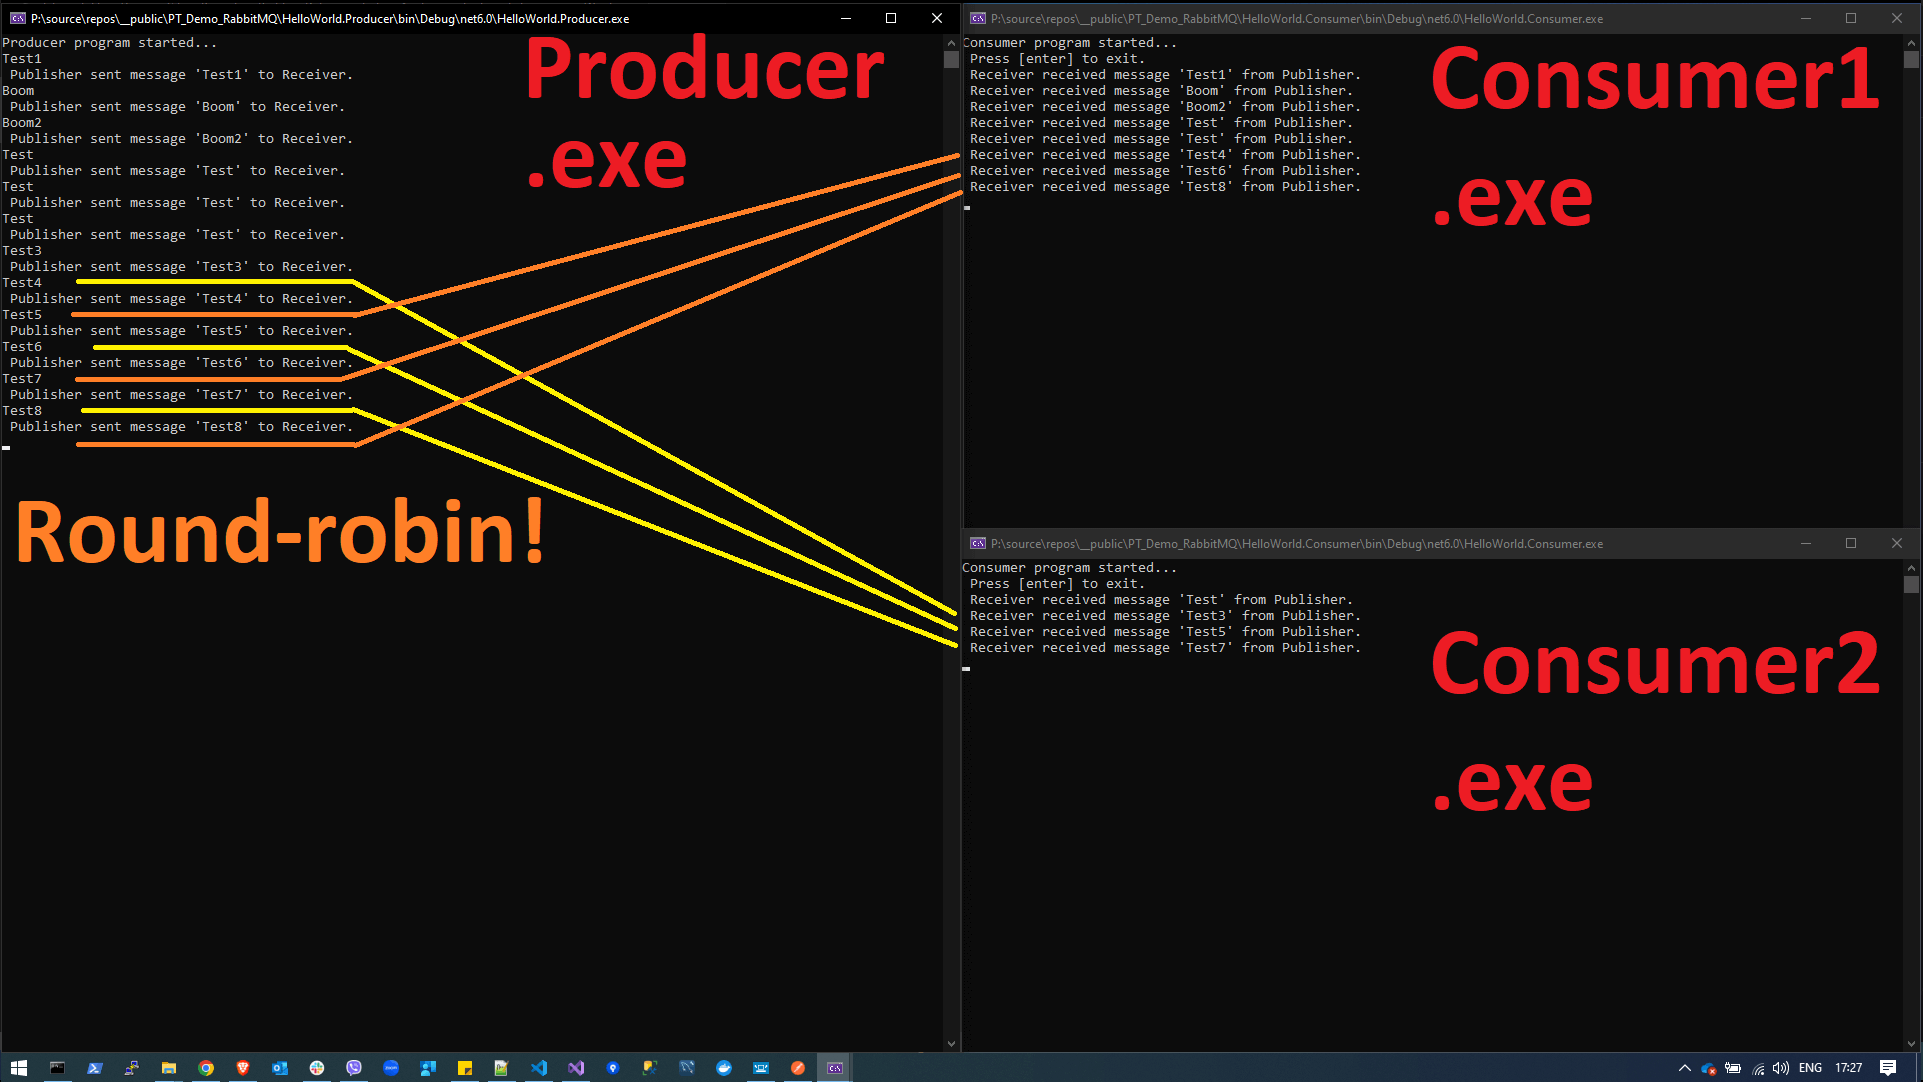
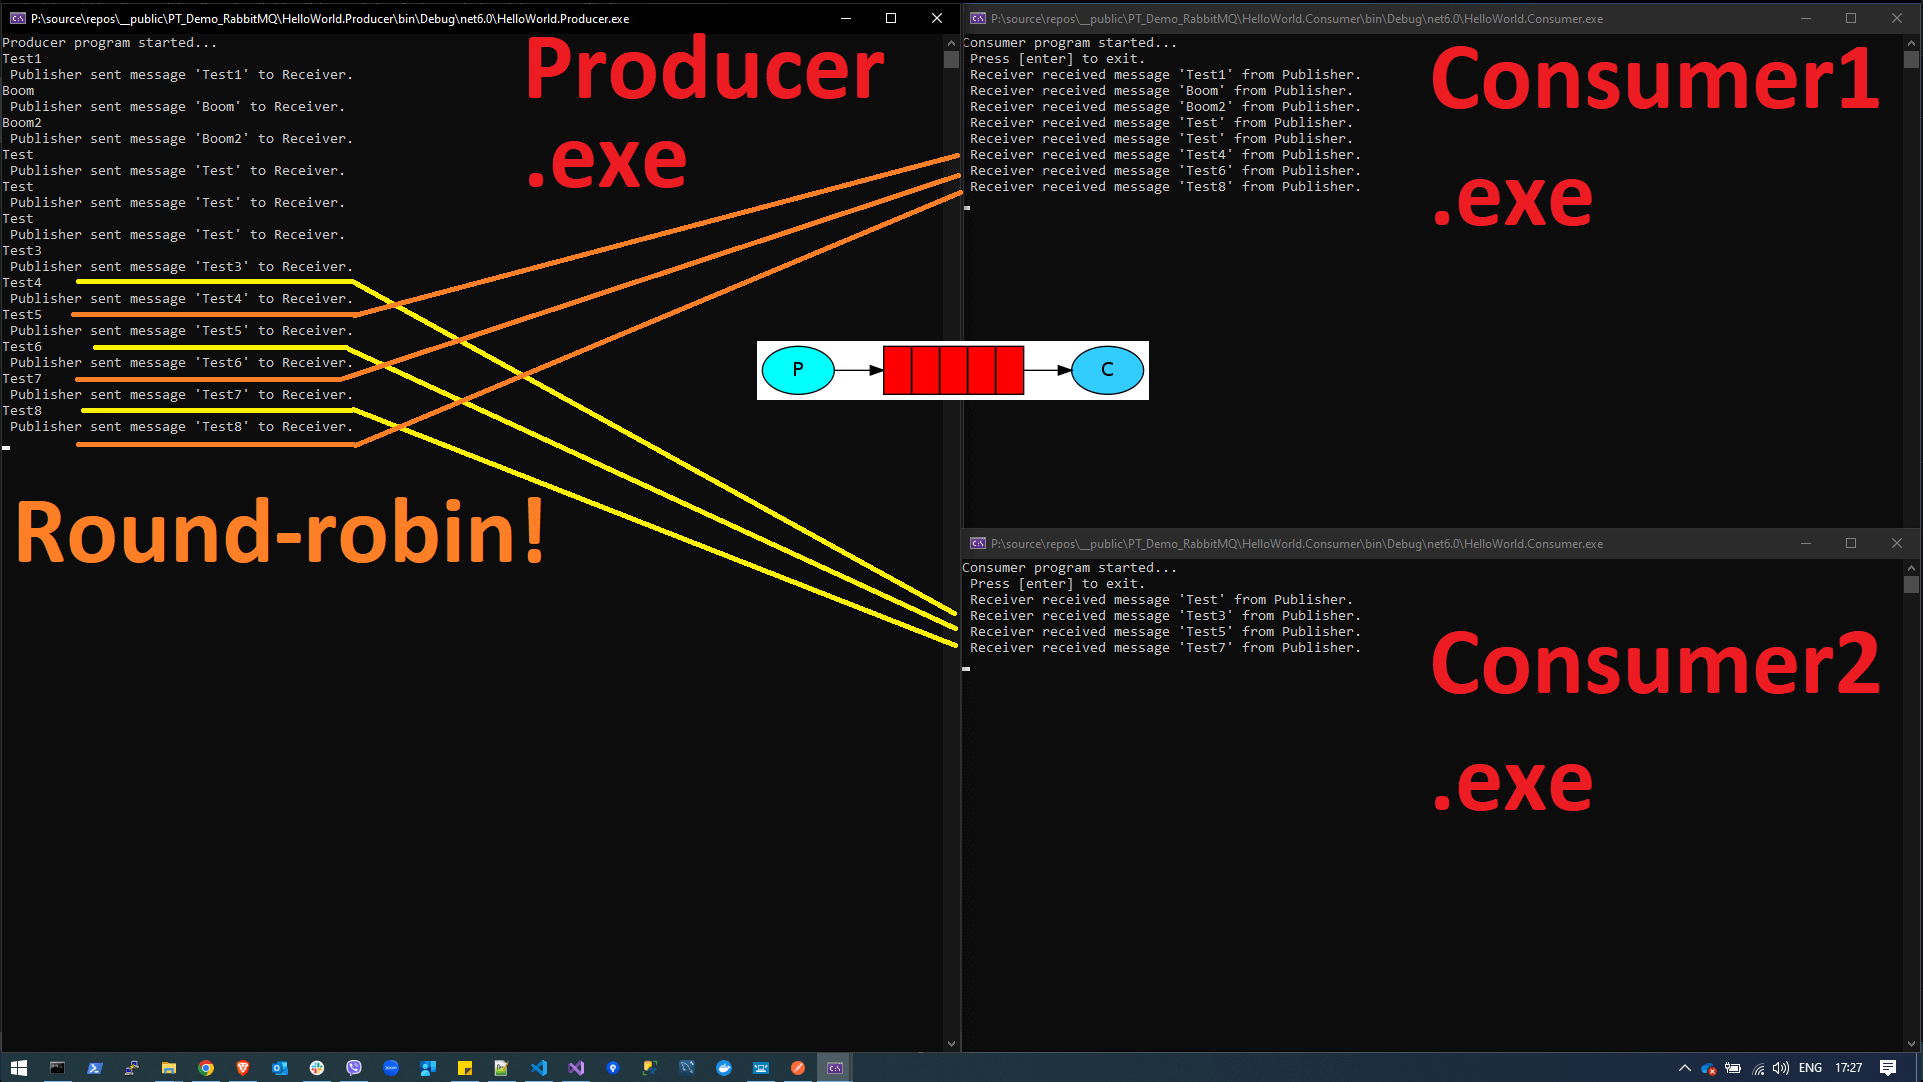
PubSub project implemented

Changed region(s): [[0.3744, 0.305, 0.624, 0.3965]]

diff --git a/src/WorkQueues.TaskScheduler/Program.cs b/src/WorkQueues.TaskScheduler/Program.cs
@@ -10,7 +10,7 @@ public class Program
 
     public static void Main()
     {
-        Console.WriteLine($"{Assembly.GetExecutingAssembly().FullName?.Split(',').First()} program started...");
+        Console.WriteLine($"{Assembly.GetExecutingAssembly().FullName?.Split(',').FirstOrDefault()} program started...");
 
         var factory = new ConnectionFactory { HostName = "localhost" };
 
@@ -18,12 +18,18 @@ public class Program
         {
             using (var channel = connection.CreateModel())
             {
+                // Durability | In order to make sure that queue survives a RabbitMQ node restart, we need to declare it as durable (durable: true).
+                // Durability | RabbitMQ doesn't allow one to redefine an existing queue with different parameters and will return an error.
+                // Durability | So, rename the queue (queue: "workqueues2") to declare new one.
                 channel.QueueDeclare(queue: "workqueues", durable: false, exclusive: false, autoDelete: false, arguments: null);
 
                 while (true)
                 {
                     var message = Console.ReadLine() + new string('.', _random.Next(30, 61));
                     var body = Encoding.UTF8.GetBytes(message);
+
+                    // Durability | We can mark our messages as persistent in order to guarantee that a message won't be lost.
+                    // var properties = channel.CreateBasicProperties().Persistent = true;
 
                     // TaskScheduler uses 'Round-robin' distribution by default.
                     channel.BasicPublish(exchange: "", routingKey: "workqueues", basicProperties: null, body: body);

diff --git a/src/PubSub.LogReceiver/Program.cs b/src/PubSub.LogReceiver/Program.cs
@@ -11,7 +11,10 @@ using (var connection = factory.CreateConnection())
 {
     using (var channel = connection.CreateModel())
     {
-        channel.QueueDeclare(queue: "helloworld", durable: false, exclusive: false, autoDelete: false, arguments: null);
+        channel.ExchangeDeclare(exchange: "pubsub", type: ExchangeType.Fanout);
+
+        var queueName = channel.QueueDeclare().QueueName;
+        channel.QueueBind(queue: queueName, exchange: "pubsub", routingKey: "");
 
         var consumer = new EventingBasicConsumer(channel);
 
@@ -19,13 +22,11 @@ using (var connection = factory.CreateConnection())
         {
             var body = ea.Body.ToArray();
             var message = Encoding.UTF8.GetString(body);
-            Console.WriteLine(" Receiver received message '{0}' from Publisher.", message);
+
+            Console.WriteLine(" Worker received message '{0}' from TaskScheduler.", message);
         };
 
-        // Message Acknowledgement is sent by Consumer AUTOMATICALLY to inform RabbitMQ that the message has been received and processed.
-        // When RabbitMQ receives such Message Acknowledgement, it can safely remove this message from queue.
-        // autoAck: true => Consumer sends Message Acknowledgement to RabbitMQ AUTOMATICALLY.
-        channel.BasicConsume(queue: "helloworld", autoAck: true, consumer: consumer);
+        channel.BasicConsume(queue: queueName, autoAck: true, consumer: consumer);
 
         Console.WriteLine(" Press [enter] to exit.");
         Console.ReadLine();

diff --git a/src/WorkQueues.Worker/Program.cs b/src/WorkQueues.Worker/Program.cs
@@ -3,7 +3,7 @@ using RabbitMQ.Client;
 using System.Text;
 using System.Reflection;
 
-Console.WriteLine($"{Assembly.GetExecutingAssembly().FullName?.Split(',').First()} program started...");
+Console.WriteLine($"{Assembly.GetExecutingAssembly().FullName?.Split(',').FirstOrDefault()} program started...");
 
 var factory = new ConnectionFactory { HostName = "localhost" };
 
@@ -11,6 +11,9 @@ using (var connection = factory.CreateConnection())
 {
     using (var channel = connection.CreateModel())
     {
+        // Durability | In order to make sure that queue survives a RabbitMQ node restart, we need to declare it as durable (durable: true).
+        // Durability | RabbitMQ doesn't allow one to redefine an existing queue with different parameters and will return an error.
+        // Durability | So, rename the queue (queue: "workqueues2") to declare new one.
         channel.QueueDeclare(queue: "workqueues", durable: false, exclusive: false, autoDelete: false, arguments: null);
 
         var consumer = new EventingBasicConsumer(channel);
@@ -34,7 +37,6 @@ using (var connection = factory.CreateConnection())
 
         // autoAck: false => Worker sends Message Acknowledgement to RabbitMQ MANUALLY.
         channel.BasicConsume(queue: "workqueues", autoAck: false, consumer: consumer);
-
 
         Console.WriteLine(" Press [enter] to exit.");
         Console.ReadLine();

diff --git a/src/PubSub.LogEmitter/Program.cs b/src/PubSub.LogEmitter/Program.cs
@@ -10,16 +10,17 @@ using (var connection = factory.CreateConnection())
 {
     using (var channel = connection.CreateModel())
     {
-        channel.QueueDeclare(queue: "helloworld", durable: false, exclusive: false, autoDelete: false, arguments: null);
+        // ExchangeType.Fanout/Direct/Headers/Topic
+        channel.ExchangeDeclare(exchange: "pubsub", type: ExchangeType.Fanout);
 
         while (true)
         {
             var message = Console.ReadLine();
             var body = Encoding.UTF8.GetBytes(message);
 
-            channel.BasicPublish(exchange: "", routingKey: "helloworld", basicProperties: null, body: body);
+            channel.BasicPublish(exchange: "pubsub", routingKey: "", basicProperties: null, body: body);
 
-            Console.WriteLine(" Publisher sent message '{0}' to Receiver.", message);
+            Console.WriteLine(" TaskScheduler sent message '{0}' to Worker.", message);
         }
     }
 }

diff --git a/README.md b/README.md
@@ -1,26 +1,6 @@
 # PT_Demo_RabbitMQ
 
-## HelloWorld
-
-![HelloWorld](res/HelloWorld.png)
-
-### Set up:
-
-1. Pull the RabbitMQ Docker image:  
-    **docker pull rabbitmq:latest**
-
-2. Run the image in a Docker Container (on port 5672) locally:  
-**docker run -p 5672:5672 -d --name rabbitmqcontainer rabbitmq:latest**
-
-3. Run an instance of **HelloWorld.Producer** in Console.
-
-4. Run 1 or 2 instances of **HelloWorld.Consumer** in Console.
-
-## WorkQueues
-
-![WorkQueues](res/WorkQueues.png)
-
-### Set up:
+# Initial Setup
 
 1. Run the image in a Docker Container (on port 5672) locally:  
 **docker run -d -it --rm --name rabbitmqcontainer -p 5672:5672 -p 15672:15672 rabbitmq:3.11-management**
@@ -31,11 +11,47 @@
 3. Open the RabbitMQ Management UI on http://localhost:15672/#/.  
 In order to have admin rights, you need to login with the default admin username (guest) and password (guest).
 
+** Once in the Terminal, you can also play with these commands:  
+**rabbitmqctl status** // gets the status  
+**rabbitmqctl list_queues name messages_ready messages_unacknowledged** // get a list of queues etc.  
+**rabbitmqadmin get queue=workqueues**  // gets the last message in the queue
+
+---
+
+# Projects
+
+## 1. HelloWorld
+
+### Setup
+
+3. Run an instance of **HelloWorld.Producer** in Console.
+
+4. Run 1 or 2 instances of **HelloWorld.Consumer** in Console.
+
+![HelloWorld](res/HelloWorld.png)
+
+---
+
+## 2. WorkQueues
+
+### Setup
+
 4. Run an instance of **WorkQueues.TaskScheduler** in Console.
 
 5. Run 1 or 2 instances of **WorkQueues.Worker** in Console.
 
-** Once in the Terminal, you can also play with these commands:  
-**rabbitmqctl status** // gets the status  
-**rabbitmqctl list_queues name messages_ready messages_unacknowledged** // get a list of queues etc.  
-**rabbitmqadmin get queue=workqueues**  // gets the last message in the queue  
+![WorkQueues](res/WorkQueues.png)
+
+---
+
+## 3. PubSub (*Publish/Subscribe*)
+
+### Setup
+
+4. Run an instance of **PubSub.LogEmitter** in Console.
+
+5. Run 2 instances of **PubSub.LogReceiver** in Console.
+
+![PubSub](res/PubSub.png)
+
+---
